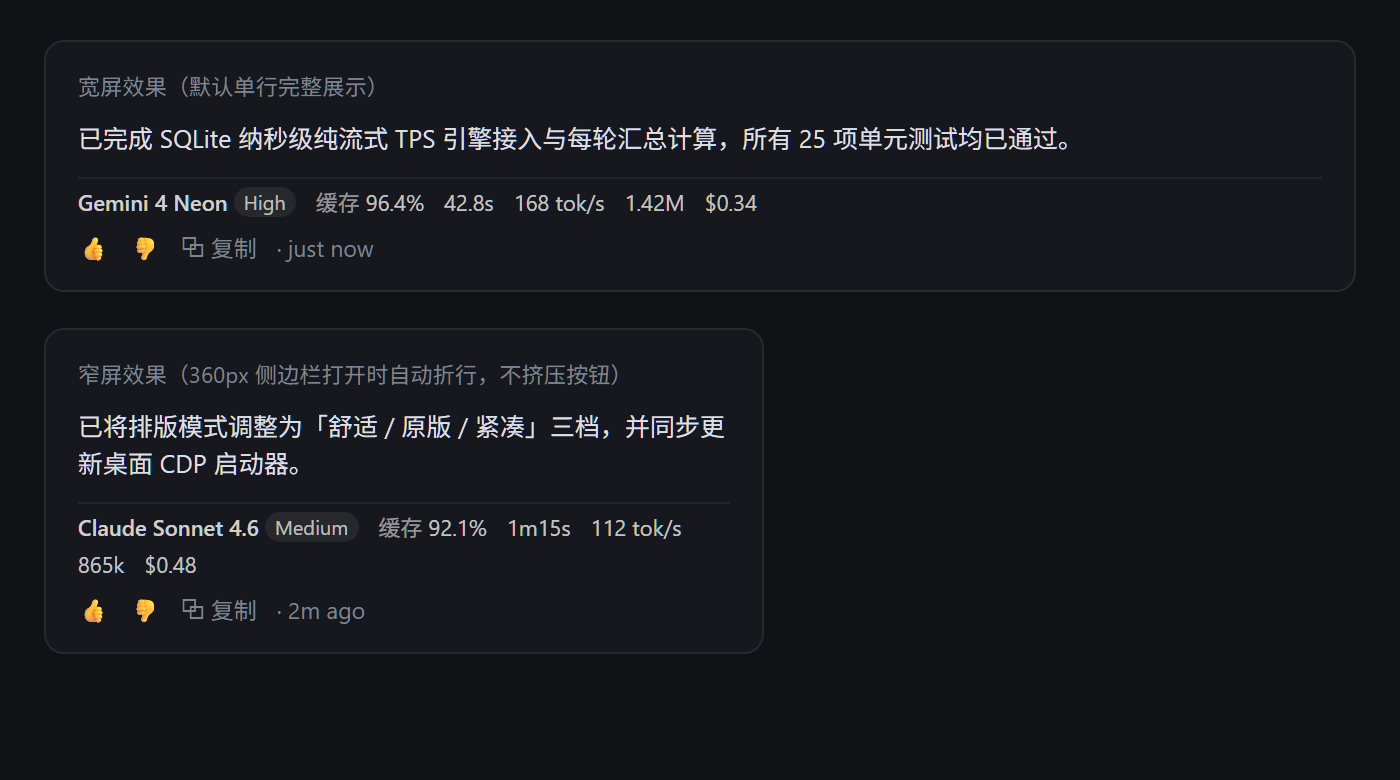
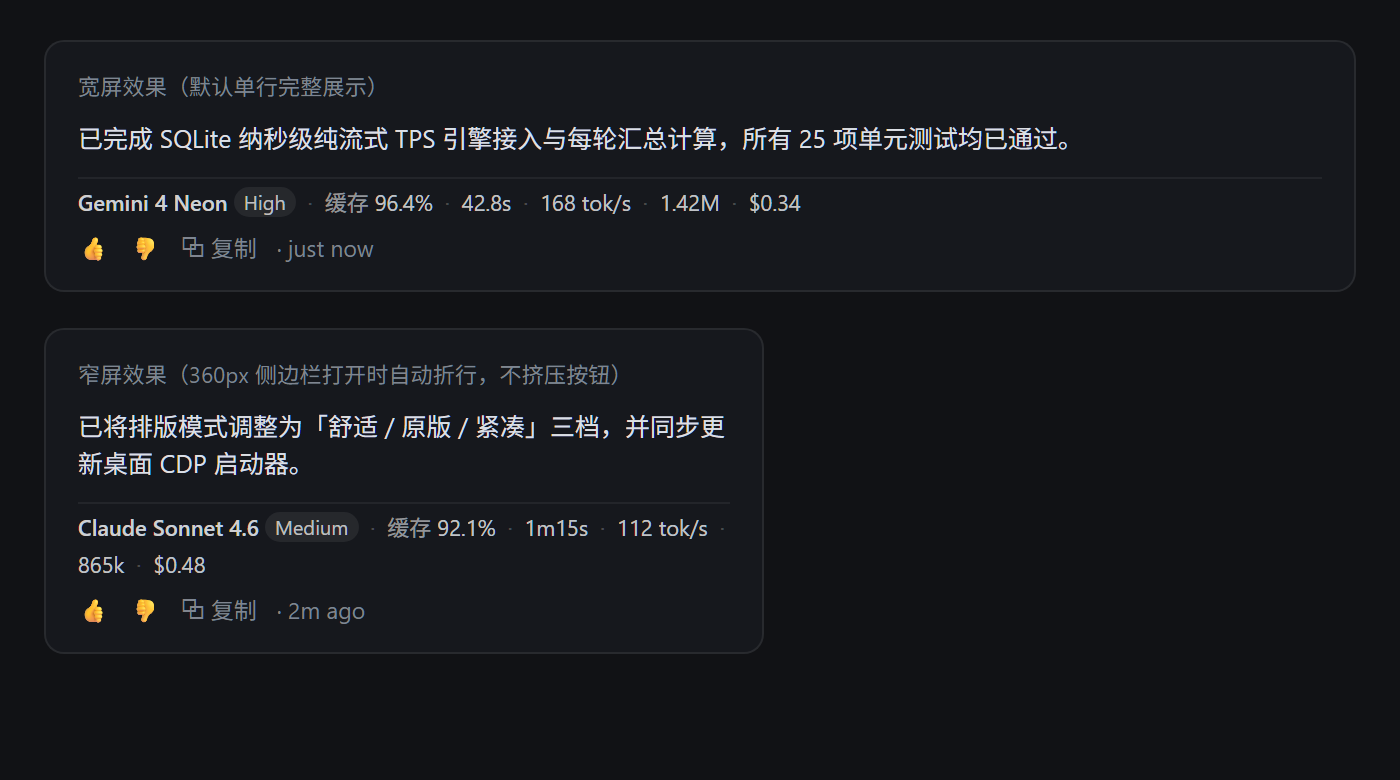
feat(ui): separate turn summary items with dots and rename launchers to Antigravity (HUD)

Changed region(s): [[0.2764, 0.6462, 0.4914, 0.7077], [0.215, 0.2462, 0.5836, 0.2769], [0.0921, 0.7077, 0.1536, 0.7385]]

diff --git a/sidecars/agy_hud/panel/app.js b/sidecars/agy_hud/panel/app.js
@@ -256,10 +256,10 @@
 
   function buildCdpAlertMessage(platform, port) {
     if (platform === 'darwin') {
-      return '当前未处于 CDP 注入状态。请点击下方生成启动器，按 Cmd+Q 彻底退出 Antigravity 后，打开 ~/Applications/Antigravity (CDP).app 重新启动。';
+      return '当前未处于 CDP 注入状态。请点击下方生成启动器，按 Cmd+Q 彻底退出 Antigravity 后，打开 ~/Applications/Antigravity (HUD).app 重新启动。';
     }
     if (platform === 'win32') {
-      return '当前未处于 CDP 注入状态。请点击下方生成启动器，彻底退出 Antigravity（含右下角托盘图标）后，双击桌面 Antigravity (CDP).lnk 重新启动。';
+      return '当前未处于 CDP 注入状态。请点击下方生成启动器，彻底退出 Antigravity（含右下角托盘图标）后，双击桌面 Antigravity (HUD).lnk 重新启动。';
     }
     return `当前未处于 CDP 注入状态。请彻底退出 Antigravity 后，使用带 --remote-debugging-port=${port || 9229} 参数的命令重新启动。`;
   }

diff --git a/README.md b/README.md
@@ -27,8 +27,8 @@
 为降低双端维护成本，本项目采用**单一跨平台框架代码库**：
 * **95%+ 跨平台共享**：Sidecar 后端、本地会话解析、速率统计、原生配额客户端、周额度按需估算、GitHub 自更新引擎、CDP WebSocket 注入桥、输入栏 HUD、右侧边栏 UI 以及 `scripts/install.mjs` / `uninstall.mjs` 全部基于 **Node.js 22+ 内置 API 与标准 Web/CDP** 实现，Windows 与 macOS 共用同一套代码。
 * **仅启动器外壳按系统适配**：
-  * **Windows**：生成无黑窗桌面快捷方式 `Antigravity (CDP).lnk`（配合静默 `.vbs`）。
-  * **macOS**：在 `~/Applications/` 生成套壳 `Antigravity (CDP).app`（复用官方 `.icns` 图标，不破坏苹果代码签名与自动更新）。
+  * **Windows**：生成无黑窗桌面快捷方式 `Antigravity (HUD).lnk`（配合静默 `.vbs`）。
+  * **macOS**：在 `~/Applications/` 生成套壳 `Antigravity (HUD).app`（复用官方 `.icns` 图标，不破坏苹果代码签名与自动更新）。
 
 ---
 
@@ -43,7 +43,7 @@
   * **周额度总 Token 与费用估算**：通过「`resetTime` 周期对齐 + 差分锚点」同时兼顾自然重置与官方主动重置/回补，全程使用精确浮点比例计算；只要净消耗变化 `>= 1%` 即自动按比例反推各分组**周额度总 Token 与总费用估算**。
   * **严格按需计算**：后台仅做 `O(1)` 数值锚点比对，绝不扫描日志；仅在打开右侧 `AGY HUD` 边栏时才按需扫描统计。
 * **检查与自动更新**：支持手动检查/升级，或开启定时自动检查与发现新版自动更新（保留全部配置）。
-* **跨平台零侵入 CDP 启动器**：Windows 自动生成无黑窗桌面 `Antigravity (CDP).lnk`；macOS 自动在 `~/Applications/` 生成套壳 `Antigravity (CDP).app`（复用官方图标，不破坏苹果签名）。
+* **跨平台零侵入 CDP 启动器**：Windows 自动生成无黑窗桌面 `Antigravity (HUD).lnk`；macOS 自动在 `~/Applications/` 生成套壳 `Antigravity (HUD).app`（复用官方图标，不破坏苹果签名）。
 
 ---
 
@@ -82,7 +82,7 @@
   git clone https://github.com/Wujuhu/antigravity-hud.git && cd antigravity-hud && chmod +x install.sh && ./install.sh
   ```
 
-安装脚本会自动部署插件至 `~/.gemini/config/plugins/agy-hud`，并自动生成 CDP 启动器（Windows 为桌面 `Antigravity (CDP).lnk`，macOS 为 `~/Applications/Antigravity (CDP).app`）。
+安装脚本会自动部署插件至 `~/.gemini/config/plugins/agy-hud`，并自动生成 CDP 启动器（Windows 为桌面 `Antigravity (HUD).lnk`，macOS 为 `~/Applications/Antigravity (HUD).app`）。
 
 ### 2. 开启并启动（2 步生效）
 

diff --git a/docs/AGENT_INSTALL.md b/docs/AGENT_INSTALL.md
@@ -22,8 +22,8 @@
      - 它会自动将插件文件部署至 `~/.gemini/config/plugins/agy-hud/`。
      - 它会自动初始化或保留 `~/.gemini/antigravity/plugin_data/agy-hud/config.json`（自动识别 GitHub 仓库地址以支持检查与自动更新）。
      - 它会自动生成当前系统对应的零侵入 CDP 启动器：
-       - **Windows**：桌面 `Antigravity (CDP).lnk`（默认端口 `9229`，无黑窗）
-       - **macOS**：`~/Applications/Antigravity (CDP).app`（套壳启动器，复用官方图标，不破坏代码签名）
+       - **Windows**：桌面 `Antigravity (HUD).lnk`（默认端口 `9229`，无黑窗）
+       - **macOS**：`~/Applications/Antigravity (HUD).app`（套壳启动器，复用官方图标，不破坏代码签名）
 
 3. **严格安全边界（必须遵守）**
    - **禁止**修改 Antigravity 安装目录、`app.asar` 或手动编辑 `~/.gemini/config/config.json`。

diff --git a/docs/AGENT_UNINSTALL.md b/docs/AGENT_UNINSTALL.md
@@ -8,7 +8,7 @@
 
 1. **确认清理范围（若用户未明确说明）**
    - **常规卸载（默认）**：仅移除插件目录 `~/.gemini/config/plugins/agy-hud`，保留个人自定义排序配置（方便日后重装）。
-   - **彻底卸载（`--purge-data`）**：同时删除 `~/.gemini/antigravity/plugin_data/agy-hud` 以及生成的 CDP 启动器（Windows 桌面 `Antigravity (CDP).lnk` 或 macOS `~/Applications/Antigravity (CDP).app`）。
+   - **彻底卸载（`--purge-data`）**：同时删除 `~/.gemini/antigravity/plugin_data/agy-hud` 以及生成的 CDP 启动器（Windows 桌面 `Antigravity (HUD).lnk` 或 macOS `~/Applications/Antigravity (HUD).app`）。
 
 2. **执行卸载**
    - 若本地存在 `antigravity-hud` 仓库目录，进入根目录执行：
